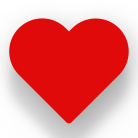
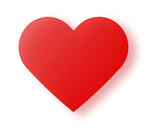
data parsing and beats

diff --git a/src/ui/screens/circleLive/circleLiveScreen.tsx b/src/ui/screens/circleLive/circleLiveScreen.tsx
@@ -1,47 +1,64 @@
+import { getScoreQuality } from "@domain/circleActivity/circleActivityData";
 import { useLiveData } from "@domain/ring/hooks";
 import { getIntensity, Intensity } from "@domain/ring/ringLiveData";
 import { ResponsiveCenterView, Row, Stack } from "@ui/components/layout";
 import { ScrollScreen } from "@ui/components/scrollScreen";
 import { PrimaryText, TertiaryText, TitleText } from "@ui/components/text";
 import { useI18n } from "@ui/i18n";
-import { colors, intensityColors } from "@ui/styles/colors";
+import { colors, intensityColors, qualityColors } from "@ui/styles/colors";
 import { roundedWhiteCardStyle, shadow } from "@ui/styles/containerStyles";
-import React from "react";
-import { Image } from "react-native";
+import React, { useEffect } from "react";
 import LinearGradient from "react-native-linear-gradient";
 import styled from "styled-components/native";
+import { HeartBeatCard } from "./heartBeatCard";
 
 export const CircleLiveScreen: React.FC = () => {
-	const { format, formatIntensity } = useI18n();
+	const { format, formatIntensity, formatScoreQuality } = useI18n();
 	const { data, listening, start, stop } = useLiveData();
 
-	const maxHeartRateRatio = data ? data.heartRate / data.maxHeartRate : null;
+	const maxHeartRateRatio = data ? (data.heartRate / data.maxHeartRate) * 100 : null;
 	const activityIntensity = getIntensity(maxHeartRateRatio);
+	const dataQuality = data ? getScoreQuality(data?.correlation, 60, 80) : null;
+
+	console.log(data?.correlation);
+
+	useEffect(() => stop, []);
 
 	return (
-		<Container>
+		<Container contentContainerStyle={{ paddingTop: 30 }}>
 			<ResponsiveCenterView maxWidth={380} align="stretch">
 				<Stack gap={16}>
 					<Row gap={100}>
 						<TitleText>{format("live.heart_rate.label")}</TitleText>
-						<TertiaryText>{format("live.accuracy.label")}</TertiaryText>
+						<Row gap={5} align="center">
+							<TertiaryText>
+								{format("live.accuracy.label")}
+								{dataQuality ? <QualityValue> {formatScoreQuality(dataQuality)}</QualityValue> : null}
+							</TertiaryText>
+							{dataQuality ? <ColoredDot color={qualityColors[dataQuality]} /> : null}
+						</Row>
 					</Row>
-					<Row gap={20}>
+					<Row gap={20} style={{ height: 155 }}>
 						<Stack gap={10} style={{ flex: 1 }}>
 							<InfoCard>
 								<TertiaryText>{format("live.intensity.label")}</TertiaryText>
-								{activityIntensity ? <DataValue>{formatIntensity(activityIntensity)}</DataValue> : null}
+								<Row gap={10} align="center">
+									<DataValue>{formatIntensity(activityIntensity)}</DataValue>
+									{activityIntensity !== Intensity.NONE ? (
+										<ColoredDot color={intensityColors[activityIntensity]} />
+									) : null}
+								</Row>
 							</InfoCard>
 							<InfoCard>
 								<TertiaryText>{format("live.hr_max.label")}</TertiaryText>
-								{maxHeartRateRatio ? <DataValue>{maxHeartRateRatio} bpm</DataValue> : null}
+								{data?.maxHeartRate ? <DataValue>{data.maxHeartRate} bpm</DataValue> : null}
 							</InfoCard>
 						</Stack>
-						<InfoCard style={{ flex: 1 }}>
+						<InfoCard style={{ flex: 1, paddingBottom: 30 }}>
 							<TertiaryText>{format("live.hr_max.ratio.label")}</TertiaryText>
 							{data && maxHeartRateRatio ? (
 								<>
-									<DataValue>{(data.heartRate / maxHeartRateRatio) * 100} %</DataValue>
+									<DataValue style={{ alignSelf: "center" }}>{Math.floor(maxHeartRateRatio)} %</DataValue>
 									<Gauge>
 										<GaugeValue intensity={activityIntensity} rate={maxHeartRateRatio} />
 									</Gauge>
@@ -50,7 +67,13 @@ export const CircleLiveScreen: React.FC = () => {
 						</InfoCard>
 					</Row>
 				</Stack>
-				<HeartCardWrapper>
+				<HeartBeatCard
+					listening={listening}
+					heartRate={data?.heartRate}
+					onToggle={listening ? stop : start}
+					style={{ marginVertical: 40 }}
+				/>
+				{/* <HeartCardWrapper>
 					<HeartRateCard start={{ x: 0, y: 1 }} end={{ x: 1, y: 0 }} colors={["#f44a59", "#f97444"]}>
 						<Image source={require("@assets/images/heartBeat.png")} />
 						{data && (
@@ -72,10 +95,10 @@ export const CircleLiveScreen: React.FC = () => {
 							)}
 						</PlayPauseButtonContent>
 					</PlayPauseButton>
-				</HeartCardWrapper>
+				</HeartCardWrapper> */}
 				<Stack gap={20}>
 					<TitleText>{format("live.hrv_blood_ox.label")}</TitleText>
-					<Row gap={20}>
+					<Row gap={20} style={{ height: 70 }}>
 						<InfoCard style={{ flex: 1 }}>
 							<TertiaryText>{format("live.hrv.label")}</TertiaryText>
 							{data ? <DataValue>{data.hrv} ms</DataValue> : null}
@@ -101,12 +124,13 @@ const InfoCard = styled.View`
 	border-radius: 6px;
 	justify-content: space-between;
 	padding: 5px 12px 10px;
-	min-height: 70px;
+	flex: 1;
 `;
 
 const HeartCardWrapper = styled.View`
 	${shadow("2px 4px")}
-	margin: 50px 0 80px;
+	margin: 50px 0 40px;
+	padding-bottom: 42px;
 `;
 const HeartRateCard = styled(LinearGradient)`
 	border-radius: 22px;
@@ -118,7 +142,6 @@ const HeartRateCard = styled(LinearGradient)`
 const PlayPauseButton = styled.Pressable`
 	position: absolute;
 	bottom: 0;
-	transform: translateY(42px);
 	align-self: center;
 
 	${shadow("4px 5px", 18)}
@@ -177,4 +200,17 @@ const GaugeValue = styled.View<{ intensity: Intensity; rate: number }>`
 	left: 0;
 	width: ${({ rate }) => rate * 100}%;
 	border-radius: 5px;
+`;
+
+const ColoredDot = styled.View<{ color: string }>`
+	flex-grow: 0;
+	flex-shrink: 0;
+	width: 10px;
+	height: 10px;
+	border-radius: 5px;
+	background-color: ${({ color }) => color};
+`;
+
+const QualityValue = styled(DataValue)`
+	font-size: 12px;
 `;

diff --git a/src/domain/ring/ringService.ts b/src/domain/ring/ringService.ts
@@ -1,3 +1,4 @@
+import { delay } from "@core/utils";
 import { Channel } from "@domain/device/channels";
 import { DeviceService } from "@domain/device/deviceService";
 import { observable } from "micro-observables";
@@ -6,6 +7,50 @@ import { deserializeBattery, RingBattery } from "./ringBattery";
 import { ringDataEOF } from "./ringData";
 import { RingDataStorage } from "./ringDataStorage";
 import { deserializeLiveData, RingLiveData } from "./ringLiveData";
+
+const liveData = [
[10 lines of base64/hex data omitted]
+
[30 lines of base64/hex data omitted]
+];
 
 const syncFinishedTimeout = 3000;
 
@@ -40,26 +85,37 @@ export class RingService {
 		this.syncData();
 	}
 
-	listenLiveData() {
+	async listenLiveData() {
 		this._ringLiveData.set({ listening: true });
-		return this.deviceService.listen("FBL1", "FBL", (value) => {
-			if (value) {
-				const deserializedData = deserializeLiveData(value);
-				if (deserializedData) {
-					this._ringLiveData.update((c) => {
-						const maxHeartRate = c.data
-							? Math.max(deserializedData.heartRate, c.data.heartRate)
-							: deserializedData.heartRate;
-						return { ...c, data: { ...deserializedData, maxHeartRate } };
-					});
-				}
-			}
-		});
+		let i = 0;
+		while (this._ringLiveData.get().listening) {
+			const data = deserializeLiveData(liveData[i % liveData.length]);
+			this._ringLiveData.update((c) => {
+				const maxHeartRate = c.data ? Math.max(data!.heartRate, c.data.maxHeartRate) : data!.heartRate;
+				return { ...c, data: { ...data!, maxHeartRate } };
+			});
+			i++;
+			await delay(1000);
+		}
+		// return this.deviceService.listen("FBL1", "FBL", (value) => {
+		// 	if (value) {
+		// 		const deserializedData = deserializeLiveData(value);
+		// 		if (deserializedData) {
+		// 			this._ringLiveData.update((c) => {
+		// 				const maxHeartRate = c.data
+		// 					? Math.max(deserializedData.heartRate, c.data.heartRate)
+		// 					: deserializedData.heartRate;
+		// 				return { ...c, data: { ...deserializedData, maxHeartRate } };
+		// 			});
+		// 		}
+		// 	}
+		// });
 	}
 	// 40% and 55% of user’s max HR it is considered low intensity activity,  between 55% and 70% of user’s max HR it is considered medium intensity activity, between 70% and 100% o
 	stopLiveData() {
-		this._ringLiveData.update((c) => ({ ...c, listening: false }));
-		return this.deviceService.write("FBL0");
+		// this._ringLiveData.update((c) => ({ ...c, listening: false }));
+		this._ringLiveData.update((c) => ({ listening: false }));
+		// return this.deviceService.write("FBL0");
 	}
 
 	listenBattery() {

diff --git a/src/ui/screens/circleLive/heartBeatCard.tsx b/src/ui/screens/circleLive/heartBeatCard.tsx
@@ -1,0 +1,128 @@
+import { Row } from "@ui/components/layout";
+import { useI18n } from "@ui/i18n";
+import { colors } from "@ui/styles/colors";
+import { shadow } from "@ui/styles/containerStyles";
+import React, { useEffect, useMemo, useRef } from "react";
+import { Animated, StyleProp, ViewStyle } from "react-native";
+import LinearGradient from "react-native-linear-gradient";
+import styled from "styled-components/native";
+
+interface HeartBeatCardProps {
+	listening: boolean;
+	heartRate?: number;
+	onToggle: () => void;
+	style?: StyleProp<ViewStyle>;
+}
+// @refresh reset
+export const HeartBeatCard: React.FC<HeartBeatCardProps> = ({ listening, heartRate, onToggle, style }) => {
+	const { format } = useI18n();
+	const beat = useRef(new Animated.Value(1)).current;
+
+	const fakeHR = 70;
+	const animationTime = (60 / fakeHR) * 1000;
+
+	const animation = useMemo(
+		() =>
+			Animated.loop(
+				Animated.sequence([
+					Animated.timing(beat, { toValue: 1.2, useNativeDriver: true, duration: animationTime / 8 }),
+					Animated.timing(beat, { toValue: 0.9, useNativeDriver: true, duration: animationTime / 8 }),
+					Animated.timing(beat, { toValue: 1.1, useNativeDriver: true, duration: animationTime / 8 }),
+					Animated.timing(beat, { toValue: 1, useNativeDriver: true, duration: animationTime / 8 }),
+					Animated.delay(animationTime / 2),
+				])
+			),
+		[animationTime]
+	);
+
+	useEffect(() => {
+		if (listening) {
+			console.log("GO");
+
+			animation.start(() => {
+				console.log("STOPPED");
+			});
+		} else {
+			animation.reset();
+		}
+	}, [listening]);
+
+	return (
+		<Container style={style}>
+			<HeartRateCard start={{ x: 0, y: 1 }} end={{ x: 1, y: 0 }} colors={["#f44a59", "#f97444"]}>
+				<Animated.Image style={{ transform: [{ scale: beat }] }} source={require("@assets/images/heartBeat.png")} />
+				{heartRate !== undefined && (
+					<HeartRateValue>
+						{heartRate}
+						<HeartRateUnit>bpm</HeartRateUnit>
+					</HeartRateValue>
+				)}
+			</HeartRateCard>
+			<PlayPauseButton onPress={onToggle}>
+				<PlayPauseButtonContent start={{ x: 0, y: 1 }} end={{ x: 1, y: 0 }} colors={["#f44a59", "#f97444"]}>
+					{listening ? (
+						<Row gap={8}>
+							<PauseBar />
+							<PauseBar />
+						</Row>
+					) : (
+						<StartLabel>{format("live.start")}</StartLabel>
+					)}
+				</PlayPauseButtonContent>
+			</PlayPauseButton>
+		</Container>
+	);
+};
+
+const Container = styled.View`
+	${shadow("2px 4px")}
+	padding-bottom: 42px;
+`;
+
+const HeartRateCard = styled(LinearGradient)`
+	border-radius: 22px;
+	height: 200px;
+	padding: 11px;
+	align-items: center;
+`;
+
+const PlayPauseButton = styled.Pressable`
+	position: absolute;
+	bottom: 0;
+	align-self: center;
+
+	${shadow("4px 5px", 18)}
+`;
+
+const PlayPauseButtonContent = styled(LinearGradient)`
+	width: 84px;
+	height: 84px;
+	border-radius: 42px;
+	align-items: center;
+	justify-content: center;
+`;
+
+const PauseBar = styled.View`
+	background-color: ${colors.white};
+	border-radius: 10px;
+	width: 7px;
+	height: 30px;
+`;
+
+const StartLabel = styled.Text`
+	font-size: 19px;
+	color: ${colors.white};
+	font-weight: bold;
+`;
+
+const HeartRateValue = styled.Text`
+	margin-top: 14px;
+	font-size: 40px;
+	text-align: center;
+	font-weight: 500;
+	color: ${colors.white};
+`;
+
+const HeartRateUnit = styled.Text`
+	font-size: 19px;
+`;

diff --git a/src/domain/ring/ringLiveData.ts b/src/domain/ring/ringLiveData.ts
@@ -2,11 +2,13 @@ export interface RingLiveData {
 	heartRate: number;
 	spo2: number;
 	hrv: number;
+	correlation: number;
 	maxHeartRate: number;
 }
 
 export function deserializeLiveData(liveData: string) {
-	const liveDataMessageRegex = /FBL(\w\w\w\w\w\w\w\w)(\w\w)(\w\w)(\w\w)(\w\w)(\w\w)/;
+	const liveDataMessageRegex =
+		/FBL(\w\w\w\w\w\w\w\w)(\w\w)(\w\w)(\w\w\w\w)(\w\w)(\w\w)(\w\w\w\w)(\w\w\w\w)(\w\w)(\w\w\w\w)/;
 	const matches = liveData.match(liveDataMessageRegex);
 
 	if (liveData === "FBLEOS") {
@@ -16,16 +18,19 @@ export function deserializeLiveData(liveData: string) {
 		throw Error("Invalid live data message " + liveData);
 	}
 
-	const [time, type, heartRateHex, spo2HHex, spo2LHex, hrvHex] = matches.slice(1);
+	const [time, type, heartRateHex, spo2Hex, hrvHex, br, temp, step, bat, correlHex] = matches.slice(1);
 
 	if (type === "00") {
 		const heartRate = +`0x${heartRateHex}`;
-		const spo2 = +`0x${spo2HHex}` + +`0x${spo2LHex}`;
+		const spo2 = hexToSint16(spo2Hex) / 100;
 		const hrv = +`0x${hrvHex}`;
+		const correlation = hexToSint16(correlHex);
+
 		return {
 			heartRate,
 			spo2,
 			hrv,
+			correlation,
 		};
 	}
 }
@@ -47,4 +52,9 @@ export function getIntensity(ratio: number | null) {
 			? Intensity.LOW
 			: Intensity.NONE
 		: Intensity.NONE;
+}
+
+function hexToSint16(str: string) {
+	const n = parseInt(str, 16);
+	return (n & 0x8000) > 0 ? n - 0x10000 : n;
 }
